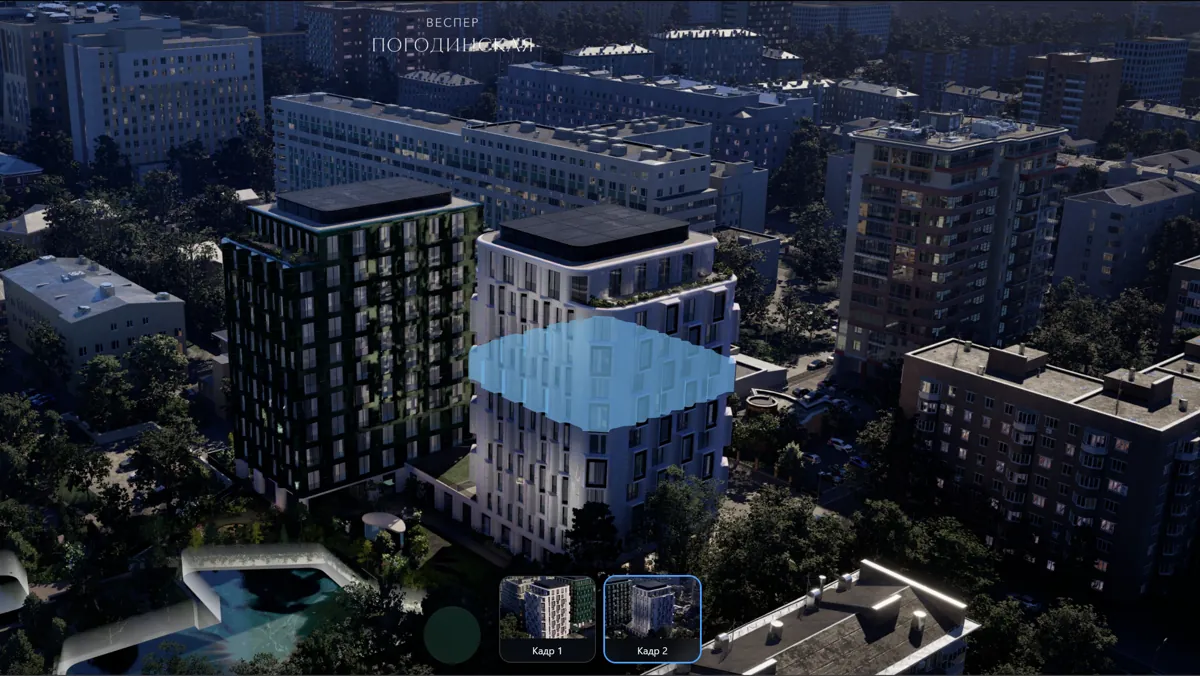
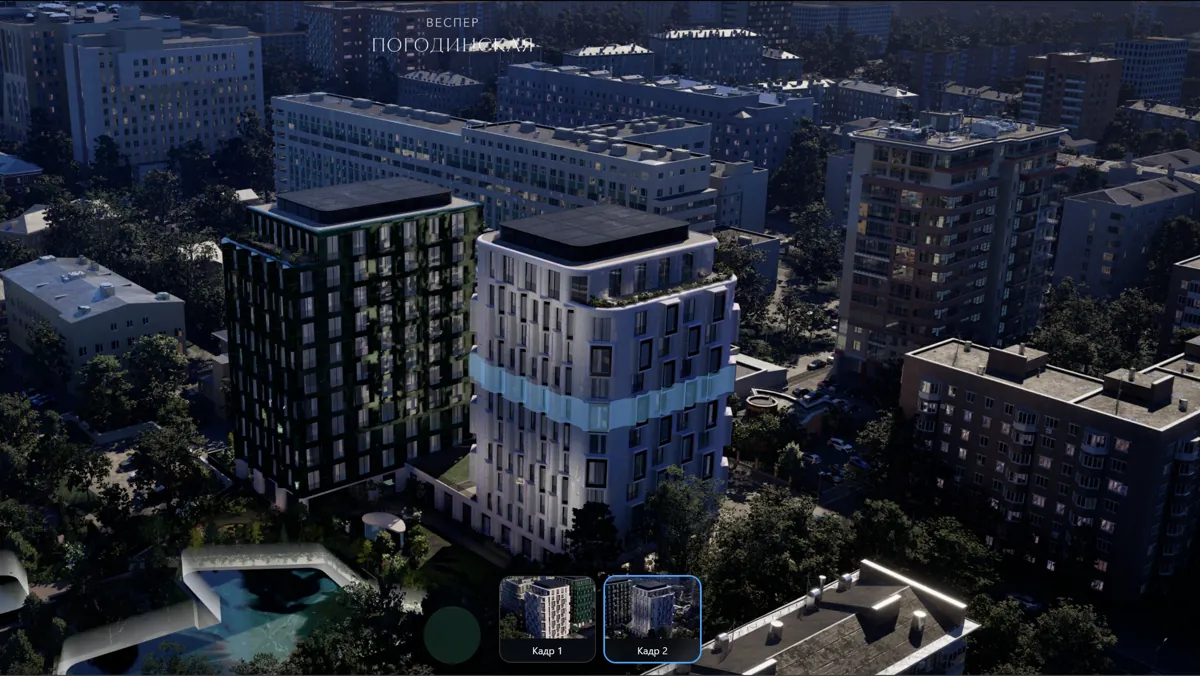
fix: styles

Changed region(s): [[0.37, 0.466, 0.6167, 0.6524]]

diff --git a/src/features/facadeHighlight/ui/facadeView/index.tsx b/src/features/facadeHighlight/ui/facadeView/index.tsx
@@ -1,5 +1,5 @@
 import {Canvas} from '@react-three/fiber'
-import {Suspense, useRef, useState} from 'react'
+import {Suspense, useCallback, useRef, useState} from 'react'
 import type {Vector3} from 'three'
 import {publicUrl, type SceneConfig, type ShotConfig} from 'entities/sceneConfig'
 import {regionToObjectPosition} from 'shared/lib/lens'
@@ -34,6 +34,14 @@ export const FacadeView = ({shot, config, debug, adjust}: Props) => {
   const size = useElementSize(containerRef)
 
   const [highlighted, setHighlighted] = useState(false)
+  // Попал ли текущий жест в объём. Нужен, чтобы отличить нажатие мимо этажа от подъёма
+  // пальца, слегка соскользнувшего с ленты: во втором случае подсветку гасить нельзя.
+  const hitInGesture = useRef(false)
+
+  const handleHighlight = useCallback((next: boolean) => {
+    if (next) hitInGesture.current = true
+    setHighlighted(next)
+  }, [])
   const [worldCenter, setWorldCenter] = useState<Vector3 | null>(null)
   const [loadedShots, setLoadedShots] = useState<string[]>([])
 
@@ -94,18 +102,24 @@ export const FacadeView = ({shot, config, debug, adjust}: Props) => {
   }
 
   return (
-    <div ref={containerRef} className={styles.facade} data-hovered={highlighted || undefined}>
+    <div
+      ref={containerRef}
+      className={styles.facade}
+      data-hovered={highlighted || undefined}
+      // Обработчик стоит на контейнере, поэтому срабатывает уже после сцены: к этому моменту
+      // известно, задел ли нажатие объём. Смотрим именно нажатие, а не отпускание, — палец
+      // за время касания успевает сместиться и промахнуться мимо узкой ленты.
+      onPointerDownCapture={() => {
+        hitInGesture.current = false
+      }}
+      onPointerDown={() => {
+        if (!hitInGesture.current) setHighlighted(false)
+      }}
+    >
       {renderFrame(displayed, ready)}
       {incoming && renderFrame(incoming, incomingReady)}
 
-      <Canvas
-        className={styles.canvas}
-        gl={{antialias: true, alpha: true}}
-        dpr={[1, 2]}
-        // Нажатие мимо объёма снимает подсветку. На тач-устройстве это единственный способ
-        // её убрать: событие ухода указателя там не приходит.
-        onPointerMissed={() => setHighlighted(false)}
-      >
+      <Canvas className={styles.canvas} gl={{antialias: true, alpha: true}} dpr={[1, 2]}>
         <ShotCamera shot={active} sensorHeightMm={sensorHeightMm} region={activeView.region} />
         {debug && <DebugBridge />}
         <Suspense fallback={null}>
@@ -114,7 +128,7 @@ export const FacadeView = ({shot, config, debug, adjust}: Props) => {
             shot={active}
             debug={debug}
             highlighted={highlighted}
-            onHighlightChange={setHighlighted}
+            onHighlightChange={handleHighlight}
             onWorldCenterChange={setWorldCenter}
           />
         </Suspense>

diff --git a/src/features/facadeHighlight/ui/highlightVolume/index.tsx b/src/features/facadeHighlight/ui/highlightVolume/index.tsx
@@ -85,11 +85,11 @@ export const HighlightVolume = ({model, shot, debug, highlighted, onHighlightCha
       geometry={visibleGeometry}
       position={position}
       quaternion={quaternion}
-      // Мышь: наведение и уход курсора. Касание: pointerdown по объёму включает подсветку,
-      // а выключает её промах мимо объёма — onPointerMissed на канвасе. Своего pointerout
-      // тач не даёт: после отрыва пальца указатель исчезает, оставаясь над объёмом.
-      onPointerOver={() => onHighlightChange(true)}
-      onPointerOut={() => onHighlightChange(false)}
+      // Наведение и уход курсора — только для мыши. У касания уход указателя означает
+      // всего лишь отрыв пальца: подсветку он снимать не должен, иначе она гаснет сразу
+      // после нажатия. Для касания выключателем служит нажатие мимо объёма.
+      onPointerOver={(event) => event.pointerType === 'mouse' && onHighlightChange(true)}
+      onPointerOut={(event) => event.pointerType === 'mouse' && onHighlightChange(false)}
       onPointerDown={() => onHighlightChange(true)}
     >
       <meshBasicMaterial

diff --git a/src/features/facadeHighlight/ui/shotSwitch/styles.module.css b/src/features/facadeHighlight/ui/shotSwitch/styles.module.css
@@ -15,22 +15,37 @@
   width: 116px;
   padding: 0;
   overflow: hidden;
-  border: 1px solid rgb(255 255 255 / 0.22);
+  border: 1px solid var(--shot-border, rgb(255 255 255 / 0.22));
   border-radius: 14px;
   background: rgb(12 16 22 / 0.4);
   box-shadow: 0 8px 24px rgb(0 0 0 / 0.35);
   color: inherit;
   font: inherit;
   cursor: pointer;
+  transform: translateY(var(--shot-lift, 0));
   transition:
     border-color 0.2s ease,
     transform 0.2s ease;
 }
 
-.shot:hover,
+
+@media (pointer: fine) {
+  .shot:hover {
+    --shot-border: rgb(255 255 255 / 0.55);
+    --shot-lift: -2px;
+  }
+}
+
+@media (pointer: coarse) {
+  .shot:active {
+    --shot-border: rgb(255 255 255 / 0.55);
+    --shot-lift: -2px;
+  }
+}
+
 .shot:focus-visible {
-  border-color: rgb(255 255 255 / 0.55);
-  transform: translateY(-2px);
+  --shot-border: rgb(255 255 255 / 0.55);
+  --shot-lift: -2px;
 }
 
 .shot[aria-current] {
@@ -89,13 +104,10 @@
 }
 
 @media (prefers-reduced-motion: reduce) {
+  /* Переопределяем сам transform, а не переменную: правило с :hover специфичнее и переменную бы перебило. */
   .shot {
-    transition: none;
-  }
-
-  .shot:hover,
-  .shot:focus-visible {
     transform: none;
+    transition: none;
   }
 }
 @media (max-height: 500px) {

diff --git a/src/features/facadeHighlight/ui/adjustPanel/styles.module.css b/src/features/facadeHighlight/ui/adjustPanel/styles.module.css
@@ -29,7 +29,7 @@
 .row button {
   min-width: 28px;
   padding: 4px 8px;
-  border: 1px solid rgb(255 255 255 / 0.22);
+  border: 1px solid var(--button-border, rgb(255 255 255 / 0.22));
   border-radius: 7px;
   background: transparent;
   color: inherit;
@@ -37,8 +37,16 @@
   cursor: pointer;
 }
 
-.row button:hover {
-  border-color: #4da3ff;
+@media (pointer: fine) {
+  .row button:hover {
+    --button-border: #4da3ff;
+  }
+}
+
+@media (pointer: coarse) {
+  .row button:active {
+    --button-border: #4da3ff;
+  }
 }
 
 .row button[aria-pressed='true'] {

diff --git a/src/features/facadeHighlight/ui/facadeView/styles.module.css b/src/features/facadeHighlight/ui/facadeView/styles.module.css
@@ -40,8 +40,10 @@
   }
 }
 
-.facade[data-hovered] {
-  cursor: pointer;
+@media (pointer: fine) {
+  .facade[data-hovered] {
+    cursor: pointer;
+  }
 }
 
 @media (prefers-reduced-motion: reduce) {
